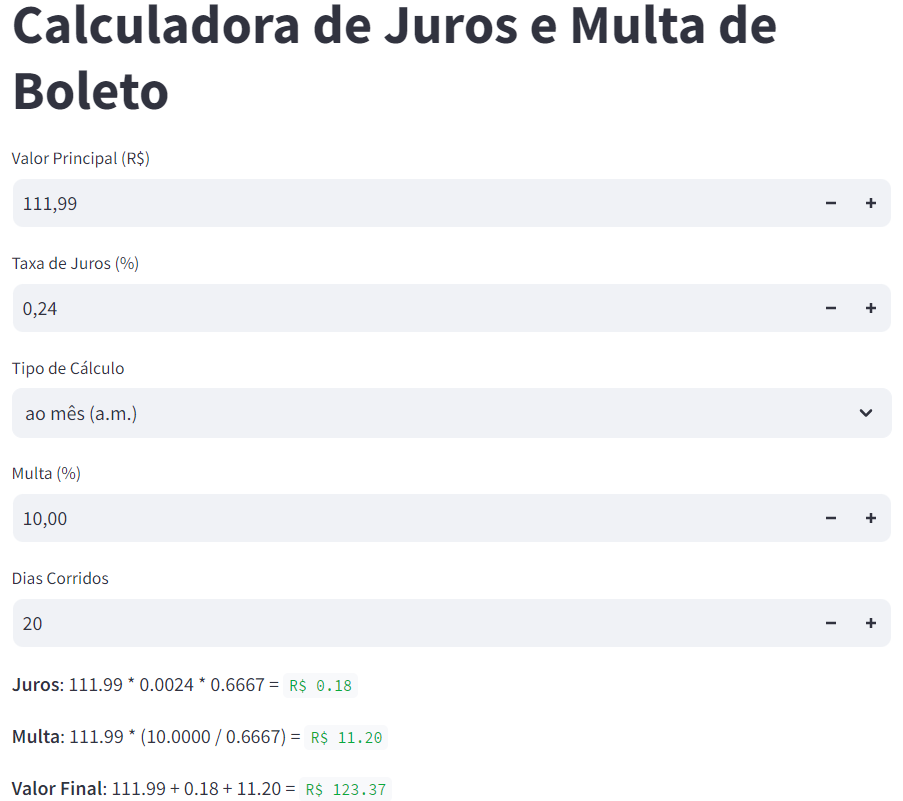
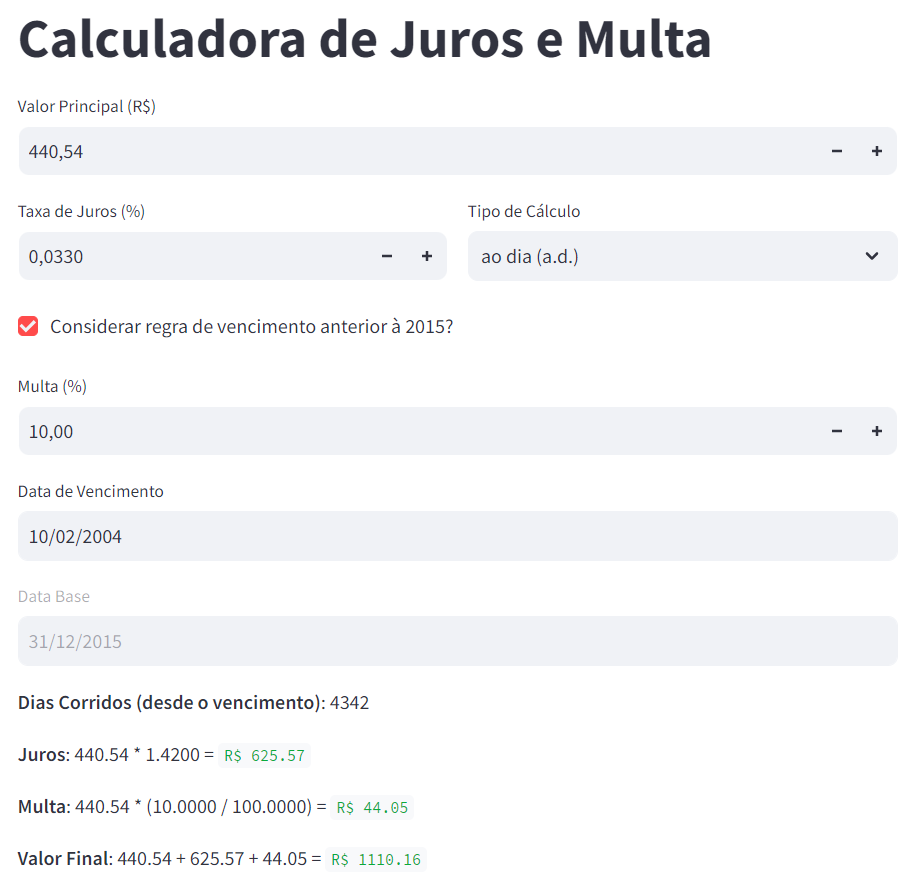
feat: add option to apply the 2015 due date rule

diff --git a/app.py b/app.py
@@ -2,7 +2,7 @@ from datetime import datetime
 
 import streamlit as st
 
-st.title("Calculadora de Juros e Multa de Boleto")
+st.title("Calculadora de Juros e Multa")
 
 input_valor_principal = st.number_input(
     label="Valor Principal (R$)", min_value=0.0, format="%.2f"
@@ -21,6 +21,10 @@ with col2:
         label="Tipo de Cálculo", options=["ao mês (a.m.)", "ao dia (a.d.)"]
     )
 
+vencimento_anterior_2015 = st.checkbox(
+    label="Considerar regra de vencimento anterior à 2015?"
+)
+
 input_multa = st.number_input(label="Multa (%)", min_value=0.0, format="%.2f")
 
 input_data_vencimento = st.date_input(
@@ -28,11 +32,14 @@ input_data_vencimento = st.date_input(
 )
 
 input_data_base = st.date_input(
-    label="Data Base", value=datetime.today(), format="DD/MM/YYYY"
-)
-
-vencimento_anterior_2015 = st.checkbox(
-    label="Considerar regra de vencimento anterior à 2015?"
+    label="Data Base",
+    value=(
+        datetime.strptime("31/12/2015", "%d/%m/%Y").date()
+        if vencimento_anterior_2015
+        else datetime.today()
+    ),
+    format="DD/MM/YYYY",
+    disabled=vencimento_anterior_2015,
 )
 
 dias_corridos = (input_data_base - input_data_vencimento).days
@@ -43,15 +50,17 @@ st.write(f"**Dias Corridos (desde o vencimento)**: {dias_corridos}")
 
 if input_tipo_calculo == "ao mês (a.m.)":
     taxa_juros_calculo = taxa_juros / 100
-    dias_corridos_calculo = dias_corridos / 30
+    dias_corridos_tipo_calculo = dias_corridos / 30
 else:
     taxa_juros_calculo = taxa_juros / 100
-    dias_corridos_calculo = dias_corridos
+    dias_corridos_tipo_calculo = dias_corridos
 
 if vencimento_anterior_2015:
     juros = round(input_valor_principal * taxa_juros_calculo, 2)
 else:
-    juros = round(input_valor_principal * taxa_juros_calculo * dias_corridos_calculo, 2)
+    juros = round(
+        input_valor_principal * taxa_juros_calculo * dias_corridos_tipo_calculo, 2
+    )
 
 multa = round(input_valor_principal * (input_multa / 100), 2)
 resultado_final = round(input_valor_principal + juros + multa, 2)
@@ -62,7 +71,7 @@ if vencimento_anterior_2015:
     )
 else:
     st.write(
-        f"**Juros**: {input_valor_principal:.2f} * {taxa_juros_calculo:.4f} * {dias_corridos_calculo:.4f} = `R$ {juros:.2f}`"
+        f"**Juros**: {input_valor_principal:.2f} * {taxa_juros_calculo:.4f} * {dias_corridos_tipo_calculo:.4f} = `R$ {juros:.2f}`"
     )
 
 st.write(
@@ -81,7 +90,9 @@ st.markdown(
 st.write(
     """
  **Fórmulas**
-- Juros: `Valor Principal * Taxa de Juros * Dias Corridos`
+- Juros
+    - `Valor Principal * round((Dias Corridos / 2) / 30) + (Dias Corridos / 2) / 31), 0)`, se regra de vencimento anterior à 2015 é selecionada.
+    - `Valor Principal * Taxa de Juros * Dias Corridos`, caso contrário.
 - Multa: `Valor Principal * (Multa / 100)`
 - Valor Final: `Valor Principal + Juros + Multa`
 """

diff --git a/README.md b/README.md
@@ -1,8 +1,8 @@
-# Calculadora de Juros e Multa de Boleto
+# Calculadora de Juros e Multa
 
 Este é um aplicativo Streamlit que calcula o valor final com base em um valor principal, taxa de juros, tipo de cálculo (mensal ou diário), multa e número de dias decorridos.
 
-![Calculadora de Juros e Multa de Boleto](app_preview.png)
+![Calculadora de Juros e Multa](app_preview.png)
 
 Confira a [demonstração](https://calculadora-juros-multa-boleto.streamlit.app/).
 
